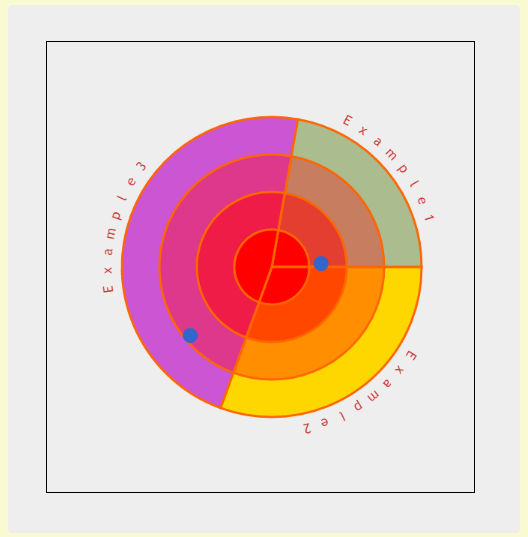
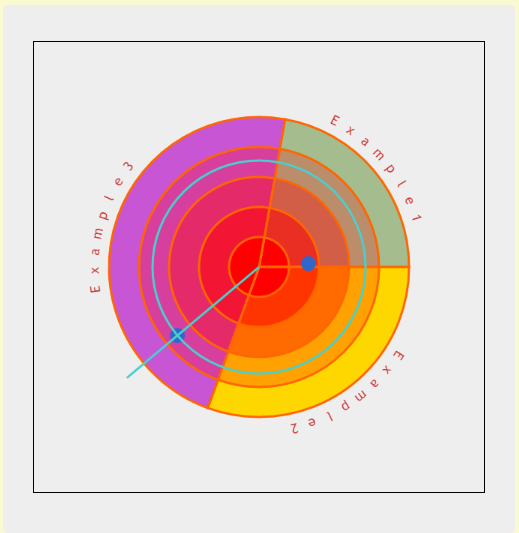
New picture

Changed region(s): [[0.185, 0.2101, 0.8324, 0.8105], [0.0, 0.0, 1.0, 1.0], [0.0617, 0.06, 0.9249, 0.9306]]

diff --git a/js/script.js b/js/script.js
@@ -178,7 +178,7 @@ function createLable(data) {
         mouseout: function(layer) {
             var Label = $('canvas').getLayer(layer.name);
             Label.fillStyle = colorLabel;
-            delRayAndCircleByLabel(layer.data.id);
+            // delRayAndCircleByLabel(layer.data.id);
         },
         dblclick: function(layer) {
             $('#pop_lable').css('display','block').attr('id',layer.data.id);
